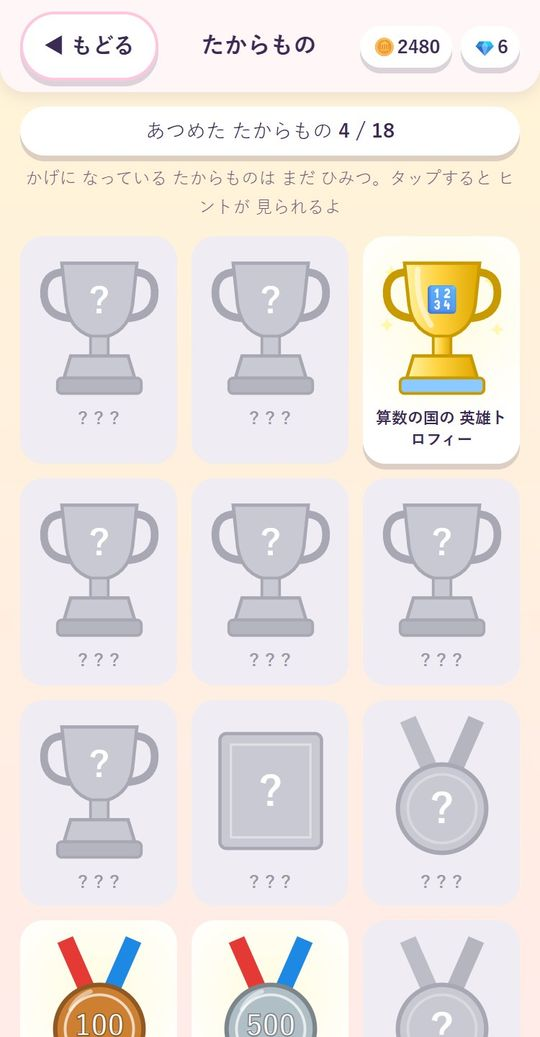
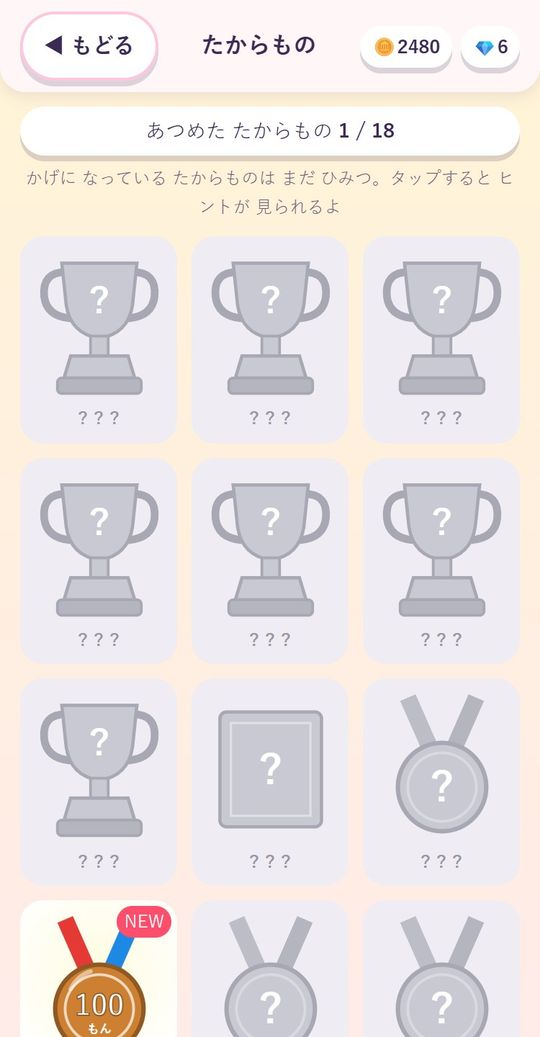
v29: 読み問題のまちがい選択肢を実在する自然な言葉に（作れない語は書き問題へ）・デバッグの音を最初からオンに＋音の切り替え・説明書のたからもの詳細を非公開に

diff --git a/yomi.js b/yomi.js
@@ -20,8 +20,9 @@ const YOMI = (() => {
     return [...out];
   }
   // 1つの 漢字の 読みを あつめる（漢字1字の ことば → 2字の 熟語を くりかえし 分ける）
+  let STEM = null, OKU = null; // STEM[k]：送りがなの つく 読み、OKU[送りがな]：[漢字, 読みの頭] の 一覧
   function build() {
-    KR = {};
+    KR = {}; STEM = {}; OKU = {};
     const add = (k, p) => { if (!p) return false; KR[k] = KR[k] || new Set(); if (KR[k].has(p)) return false; KR[k].add(p); return true; };
     const all = [];
     KANJI.forEach((K) => K.w.forEach(([w, r]) => all.push([w, r])));
@@ -29,7 +30,12 @@ const YOMI = (() => {
       const ks = [...w].filter(isK);
       if (ks.length !== 1) return;
       const i = w.indexOf(ks[0]), pre = w.slice(0, i), post = w.slice(i + 1);
-      if (r.startsWith(pre) && r.endsWith(post) && r.length > pre.length + post.length) add(ks[0], r.slice(pre.length, r.length - post.length));
+      if (r.startsWith(pre) && r.endsWith(post) && r.length > pre.length + post.length) {
+        const stem = r.slice(pre.length, r.length - post.length);
+        add(ks[0], stem);
+        // 送りがなの つく ことば（白い・学ぶ など）
+        if (post && !pre) { (STEM[ks[0]] = STEM[ks[0]] || new Set()).add(stem); (OKU[post] = OKU[post] || []).push([ks[0], stem]); }
+      }
     });
     for (let it = 0; it < 4; it++) all.forEach(([w, r]) => {
       if (w.length !== 2 || !isK(w[0]) || !isK(w[1])) return;
@@ -71,40 +77,71 @@ const YOMI = (() => {
     return { pre: reading.slice(0, best.s), p: reading.slice(best.s, best.e), suf: reading.slice(best.e) };
   }
 
-  // 1文字 ちがいの にた 読み（母音を かえる）
-  const ROWS = ["あいうえお", "かきくけこ", "がぎぐげご", "さしすせそ", "ざじずぜぞ", "たちつてと", "だでど", "なにぬねの", "はひふへほ", "ばびぶべぼ", "ぱぴぷぺぽ", "まみむめも", "やゆよ", "らりるれろ", "わを"];
-  function mutate(p) {
-    const out = [];
-    [...p].forEach((c, i) => {
-      const row = ROWS.find((r) => r.includes(c));
-      if (!row) return;
-      [...row].forEach((x) => { if (x !== c) out.push(p.slice(0, i) + x + p.slice(i + 1)); });
-    });
-    return out;
+  // ほんとうに ある ことばの 読み（漢字の ことば・ことばの国の ことば・よく つかう ことば）
+  let LEX = null;
+  const COMMON = ("こねこ こじか こうま こうし こぶた こがも こぐま こざる こいぬ こども ことり こえだ こぶね こゆび こづつみ こもり こいし こがね こなゆき " +
+    "とんぼ さくらんぼ たんぽぽ たんす たんい たいこ たまご たけのこ たぬき たから たんじょうび " +
+    "かいしゃ かいだん かいごう かいすい かいてん かいもの かいがら かいし かいじょう かいわ かいぎ かいけつ かいせい かいが かいとう かいふく " +
+    "がくせい がっこう がっき がくしゅう がくひ がくねん がくもん せんせい せんしゅ せんろ せんたく せんす " +
+    "にっき にっし にっこう にちじ にちよう まいにち まいあさ まいばん まいとし まいしゅう " +
+    "はなび はなみ はなし はなぢ はなや はなたば はなばたけ ひばな ひなた ひかり ひこうき ひるま ひるね " +
+    "すいでん すいぞう すいえい すいどう すいへい すいとう すいか すいせい すいよう でんしゃ でんわ でんき でんち " +
+    "やまみち やまびこ やまおく やまのぼり かわら かわぎし かわぐち おがわ おおかわ みずうみ うみべ はまべ " +
+    "いぬごや ねこぜ うまごや とりごや さかなや やおや ほんや くすりや はなや にくや " +
+    "あおい あかい しろい くろい きいろい ちいさい おおきい ながい みじかい たかい ひくい ふかい あさい ふとい ほそい あつい さむい あたたかい つめたい " +
+    "あたらしい ふるい つよい よわい はやい おそい おもい かるい ひろい せまい あかるい くらい うれしい かなしい たのしい やさしい むずかしい " +
+    "うみ やま かわ そら くも あめ ゆき かぜ ほし つき はな くさ き いし すな みず ひ た はたけ もり はやし いけ ぬま しま おか たに " +
+    "いぬ ねこ うし うま とり さかな むし くま しか さる ぶた かめ へび かえる うさぎ ねずみ きつね たぬき " +
+    "め みみ はな くち て あし あたま かお くび むね せなか はら ゆび こころ " +
+    "ほん かみ ふで えんぴつ つくえ いす まど と いえ へや にわ もん みち はし えき みせ まち むら " +
+    "ちち はは あに あね おとうと いもうと そふ そぼ おや こ まご " +
+    "いちねん にねん さんねん きょねん ことし らいねん がんねん しょうねん せいねん ちゅうねん " +
+    "こうえん こうじょう こうばん こうてい こうか こうしゃ こうさく こうつう こうぎょう こうちょう こうせい " +
+    "しんぶん しんごう しんせつ しんぱい しんか しんかい しんりん しんじつ " +
+    "じしん じしゃく じかん じこ じしょ じてん じどう じぶん じゆう じょうず " +
+    "がいこく がいしゅつ がいらい こくご こくばん こくみん こくりつ こっか こっき " +
+    "せかい せかいじゅう せいかつ せいかく せいき せいじ せいと せいふ せいめい せいり ").split(/\s+/).filter(Boolean);
+  function lex() {
+    if (LEX) return LEX;
+    LEX = new Set(COMMON);
+    KANJI.forEach((K) => K.w.forEach(([, r]) => LEX.add(r)));
+    if (typeof BANK !== "undefined") Object.values(BANK).forEach((b) => { if (b.label === "読みかたは？" && /^[ぁ-ん]+$/.test(b.a)) LEX.add(b.a); });
+    return LEX;
   }
 
-  // まちがいの 選択肢を 3つ つくる（作れなければ null）
+  // まちがいの 選択肢を 3つ つくる（自然な ことばが 3つ そろわなければ null）
+  // ① ほんとうに ある ことば（前と 後ろの 読みは 同じで、まん中だけ ちがう）
+  // ② 同じ 送りがなの ことば（白い → くろい・あかい、学ぶ → あそぶ・えらぶ）
+  // ③ その 漢字の べつの 読み（子犬 → こけん、番犬 → ばんいぬ：知らないと まよう）
   function distractors(K, word, reading) {
     const sp = split(word, reading, K.k);
     if (!sp) return null;
     const { pre, p, suf } = sp;
-    const mk = (q) => pre + q + suf;
-    // 日本語として ありえない ならび（「んん」や 小さい つで おわる など）は つかわない
-    const odd = (x) => /んん|^ん|^っ|っ$|っん|んっ|っっ|^ー/.test(x) || /(^|[^きしちにひみりぎじぢびぴ])[ゃゅょ]/.test(x) || (/[ぢづ]/.test(x) && !/[ぢづ]/.test(reading));
-    const near = (q) => Math.abs(q.length - p.length) <= 1;
-    const pickFrom = (list) => shuffle(list.filter((q) => q && q !== p && near(q) && mk(q) !== reading));
-    // ① その 漢字の べつの 読み（知らないと まよう）
-    const own = pickFrom(readings(K.k).filter((q) => !variants(p).includes(q)));
-    // ② 形の にた 漢字の 読み
-    const sim = pickFrom((K.sim || []).flatMap(readings));
-    // ③ 同じ 学年の ほかの 漢字の 読み
-    const grade = pickFrom(shuffle(KANJI.filter((x) => x.g === K.g && x.k !== K.k)).slice(0, 40).flatMap((x) => readings(x.k)));
-    // ④ 1文字 ちがい
-    const mut = pickFrom(mutate(p));
-    const out = [];
-    const take = (list, n) => { for (const q of list) { if (out.length >= 3 || n <= 0) break; const s = mk(q); if (!out.includes(s) && s !== reading && !odd(s)) { out.push(s); n--; } } };
-    take(own, 1); take(sim, 1); take(mut, 1); take(grade, 3); take(own, 3); take(sim, 3); take(mut, 3);
-    return out.length >= 3 ? out : null;
+    const L = lex(), cand = [];
+    const push = (x, sc) => { if (x && x !== reading && !cand.some((c) => c.x === x)) cand.push({ x, sc: sc + Math.random() }); };
+    const okLen = (m) => m.length >= 1 && Math.abs(m.length - p.length) <= (p.length >= 3 ? 2 : 1);
+    // 送りがなの ことば（白い・歩く・六つ）は、同じ 送りがなの ことばを 先に つかう
+    const kanaTail = word.slice(word.indexOf(K.k) + 1);
+    const okuri = !pre && kanaTail && suf === kanaTail && !/[一-鿿]/.test(kanaTail);
+    // ①
+    if (!okuri) L.forEach((x) => {
+      if (x.length <= pre.length + suf.length || !x.startsWith(pre) || !x.endsWith(suf)) return;
+      const m = x.slice(pre.length, x.length - suf.length);
+      if (okLen(m)) push(x, 10 + (m.length === p.length ? 0.8 : 0));
+    });
+    // ②（送りがなの つく ことば）
+    if (okuri) (OKU[kanaTail] || []).forEach(([k2, st]) => { if (k2 !== K.k && okLen(st)) push(st + suf, 9); });
+    // ③（送りがなの 読みの 頭は のぞく）
+    const stems = STEM[K.k] || new Set();
+    // （送りがなの ことばでは、音読みに 送りがなを つけた 形「ぱいる」などは 不自然なので つかわない）
+    if (!okuri) readings(K.k).filter((q) => !variants(p).includes(q) && !stems.has(q) && okLen(q) && !/^[ぱぴぷぺぽ]/.test(q)).forEach((q) => push(pre + q + suf, 6));
+    const good = cand.filter((c) => !/んん|^ん|^っ|っ$|っん|んっ|っっ/.test(c.x)).sort((a, b) => b.sc - a.sc);
+    if (good.length < 3) return null;
+    // 種類が かたよらないように：③を 1つ まぜる
+    const out = [], own = good.filter((c) => c.sc < 7);
+    if (own.length) out.push(own[0].x);
+    good.forEach((c) => { if (out.length < 3 && !out.includes(c.x)) out.push(c.x); });
+    return out.slice(0, 3);
   }
   return { distractors, split, readings };
 })();

diff --git a/manual/_src/puniquest-manual.html b/manual/_src/puniquest-manual.html
@@ -229,7 +229,7 @@ footer { margin-top: 48px; text-align: center; color: var(--ink-soft); font-size
           <li><span class="n y">9</span><span><b>ずかん</b>：あつめた カード・そざい。</span></li>
           <li><span class="n y">10</span><span><b>ミッション</b>：まいにちの おだい。</span></li>
           <li><span class="n y">11</span><span><b>セーブ</b>：きろくを のこす（ふだんは じどうで セーブされるよ）。</span></li>
-          <li><span class="n y">12</span><span><b>🏆 たからもの</b>（いちばん下の 金色の ボタン）：あつめた トロフィーや メダルを 見る。</span></li>
+          <li><span class="n y">12</span><span><b>🏆 たからもの</b>（いちばん下の 金色の ボタン）：あつめた たからものを 見る。</span></li>
         </ol>
         <div class="tip">どの 画面でも、左上の <span class="tap">◀ もどる</span> で 1つ まえに もどれるよ。画面を 下に スクロールしても、もどるボタンは ずっと 上に あるよ。</div>
       </div>
@@ -576,35 +576,23 @@ footer { margin-top: 48px; text-align: center; color: var(--ink-soft); font-size
 
   <!-- ===== 12 たからもの ===== -->
   <section class="chapter" id="takara">
-    <div class="chead"><span class="no">12</span><div><h2>たからもの</h2><p>がんばった きねんの トロフィー・メダル・表彰状</p></div></div>
-    <div class="gallery">
-      <div class="g">
-        <div class="phone"><img src="img/36_treasures.jpg" alt="たからものの 一覧。まだの ものは 灰色の かげに なっている" width="750" height="1440" loading="lazy"></div>
-        <h4>たからものの へや</h4>
-        <p>ホームの <span class="tap">🏆 たからもの</span> で 見られるよ。まだ もらっていない ものは <b>灰色の かげ</b>。タップすると ヒントが 出るよ。</p>
+    <div class="chead"><span class="no">12</span><div><h2>たからもの</h2><p>がんばった きねんの たからものが あるよ</p></div></div>
+    <div class="row">
+      <div class="shot">
+        <div class="phone"><img src="img/36_treasures.jpg" alt="たからものの へや。まだ もらっていない ものは 灰色の かげ" width="750" height="1440" loading="lazy"></div>
+        <p class="cap">たからものの へや</p>
       </div>
-      <div class="g">
-        <div class="phone"><img src="img/37_trophy.jpg" alt="もらった トロフィーを 大きく 見た ところ" width="750" height="1440" loading="lazy"></div>
-        <h4>大きく 見る</h4>
-        <p>もらった たからものを タップすると、大きな 絵と <b>もらった日</b> が 見られるよ。<span class="tap">◀ たからものに もどる</span> で もとの 画面へ。</p>
-      </div>
-      <div class="g">
-        <div class="phone"><img src="img/38_cert.jpg" alt="全世界の 英雄 表彰状" width="750" height="1440" loading="lazy"></div>
-        <h4>さいごの たからもの</h4>
-        <p>5つの 国を ぜんぶ すくって、しんの まおうを たおすと、<b>全世界の 英雄トロフィー</b>と <b>表彰状</b> が もらえるよ！</p>
+      <div class="txt">
+        <p>ホームの いちばん下の <span class="tap">🏆 たからもの</span> で 見られるよ。</p>
+        <p>ぼうけんで がんばると、ときどき たからものが もらえるよ。<b>なにを したら もらえるかは ひみつ！</b></p>
+        <ol class="legend">
+          <li><span class="n">1</span><span>まだ もらっていない ものは <b>灰色の かげ</b>。タップすると ちょっとだけ ヒントが 見られるよ。</span></li>
+          <li><span class="n">2</span><span>もらった たからものは 色が ついて かがやくよ。タップすると 大きく 見られて、<b>もらった日</b> も わかるよ。</span></li>
+          <li><span class="n">3</span><span><span class="tap">◀ たからものに もどる</span> で もとの 画面に もどれるよ。</span></li>
+        </ol>
+        <div class="tip star">ぜんぶ あつめられるかな？</div>
       </div>
     </div>
-    <div class="tbl" style="margin-top:22px"><table>
-      <tr><th>たからもの</th><th>もらえる とき</th></tr>
-      <tr><td>🏆 ○○の国の 英雄トロフィー（5こ）</td><td>その 国の 章を ぜんぶ クリア</td></tr>
-      <tr><td>🏆 まおう たいじ トロフィー</td><td>まおうを たおす</td></tr>
-      <tr><td>🏆 全世界の 英雄トロフィー・📜 表彰状</td><td>5つの 国を ぜんぶ クリアして、しんの まおうを たおす</td></tr>
-      <tr><td>🏅 正解 メダル（100・500・1000・3000問）</td><td>問題に ぜんぶで その数 正解</td></tr>
-      <tr><td>🏅 かきとり名人 メダル</td><td>かきとり道場を ぜんぶ クリア</td></tr>
-      <tr><td>🏅 キラカード 100まい メダル</td><td>★5の カードを 100まい</td></tr>
-      <tr><td>🏅 なかま 20しゅるい メダル／🏆 コンプリート トロフィー</td><td>なかまずかんを 20しゅるい／ぜんぶ</td></tr>
-      <tr><td>🏅 7日・30日 れんぞく メダル</td><td>まいにち つづけて あそぶ</td></tr>
-    </table></div>
   </section>
 
   <!-- ===== 13 せってい ===== -->
@@ -669,6 +657,7 @@ footer { margin-top: 48px; text-align: center; color: var(--ink-soft); font-size
         <p>学習のようすの確認と出題の設定は、ゲームとは別の<b>保護者ページ</b>で行います（ゲームの中からは開けません）。</p>
         <p><span class="url">https://rus855.github.io/puni-quest/parent.html</span></p>
         <p>お子さんのゲームの ⚙せってい画面に出ている12文字の「ふっかつコード」を入力して開きます。コードは<b>ぼうけんのしょ（セーブデータ）ごとに別</b>です。1台のスマホをきょうだいで使う場合なども、ページ下の「➕ コードを 追加・変更する」から<b>最大3つ</b>登録し、上部のボタンで切り替えて、それぞれに出題の設定ができます。このURLはお子さんには伝えないでください。</p>
+        <p><b>英語版「ぷにまるクエスト ENGLISH」</b>のふっかつコードも、同じ画面で登録できます（自動で見分けます。コードのボタンに 🔤 が付きます）。英語版のコードを選ぶと、学習記録と出題の設定が英語版のもの（中1〜高3・英語の章）に切り替わります。</p>
       </div>
       <div class="pc">
         <h3>⚙ 出題範囲の設定</h3>
@@ -706,7 +695,7 @@ footer { margin-top: 48px; text-align: center; color: var(--ink-soft); font-size
       </div>
       <div class="pc">
         <h3>🏆 たからもの（記念）</h3>
-        <p>国ごとの全クリア（英雄トロフィー）、まおう討伐、全世界の英雄トロフィーと表彰状、正解数（100・500・1000・3000問）、かきとり道場全クリア、キラカード100枚、なかま収集、連続ログイン（7日・30日）で記念品がもらえます。ホームの「🏆 たからもの」で、もらった日と一緒に見られます。</p>
+        <p>がんばりに応じて、記念のたからものがもらえます。ホームの「🏆 たからもの」で、もらった日と一緒に見られます。何をするともらえるかは、お子さんの楽しみのため説明書では伏せています。</p>
       </div>
       <div class="pc">
         <h3>⏱ 遊び方の目安</h3>
@@ -722,5 +711,5 @@ footer { margin-top: 48px; text-align: center; color: var(--ink-soft); font-size
     </div>
   </section>
 
-  <footer>ぷにまるクエスト ぼうけんガイド　・　画面は ver.27 の ものです</footer>
+  <footer>ぷにまるクエスト ぼうけんガイド　・　画面は ver.29 の ものです</footer>
 </div>

diff --git a/manual/kids.html b/manual/kids.html
@@ -251,7 +251,7 @@ section, header, nav.toc, .pc, .qa { scroll-margin-top: 84px; }
           <li><span class="n y">9</span><span><b>ずかん</b>：あつめた カード・そざい。</span></li>
           <li><span class="n y">10</span><span><b>ミッション</b>：まいにちの おだい。</span></li>
           <li><span class="n y">11</span><span><b>セーブ</b>：きろくを のこす（ふだんは じどうで セーブされるよ）。</span></li>
-          <li><span class="n y">12</span><span><b>🏆 たからもの</b>（いちばん下の 金色の ボタン）：あつめた トロフィーや メダルを 見る。</span></li>
+          <li><span class="n y">12</span><span><b>🏆 たからもの</b>（いちばん下の 金色の ボタン）：あつめた たからものを 見る。</span></li>
         </ol>
         <div class="tip">どの 画面でも、左上の <span class="tap">◀ もどる</span> で 1つ まえに もどれるよ。画面を 下に スクロールしても、もどるボタンは ずっと 上に あるよ。</div>
       </div>
@@ -598,35 +598,23 @@ section, header, nav.toc, .pc, .qa { scroll-margin-top: 84px; }
 
   <!-- ===== 12 たからもの ===== -->
   <section class="chapter" id="takara">
-    <div class="chead"><span class="no">12</span><div><h2>たからもの</h2><p>がんばった きねんの トロフィー・メダル・表彰状</p></div></div>
-    <div class="gallery">
-      <div class="g">
-        <div class="phone"><img src="img/36_treasures.jpg" alt="たからものの 一覧。まだの ものは 灰色の かげに なっている" width="750" height="1440" loading="lazy"></div>
-        <h4>たからものの へや</h4>
-        <p>ホームの <span class="tap">🏆 たからもの</span> で 見られるよ。まだ もらっていない ものは <b>灰色の かげ</b>。タップすると ヒントが 出るよ。</p>
+    <div class="chead"><span class="no">12</span><div><h2>たからもの</h2><p>がんばった きねんの たからものが あるよ</p></div></div>
+    <div class="row">
+      <div class="shot">
+        <div class="phone"><img src="img/36_treasures.jpg" alt="たからものの へや。まだ もらっていない ものは 灰色の かげ" width="750" height="1440" loading="lazy"></div>
+        <p class="cap">たからものの へや</p>
       </div>
-      <div class="g">
-        <div class="phone"><img src="img/37_trophy.jpg" alt="もらった トロフィーを 大きく 見た ところ" width="750" height="1440" loading="lazy"></div>
-        <h4>大きく 見る</h4>
-        <p>もらった たからものを タップすると、大きな 絵と <b>もらった日</b> が 見られるよ。<span class="tap">◀ たからものに もどる</span> で もとの 画面へ。</p>
-      </div>
-      <div class="g">
-        <div class="phone"><img src="img/38_cert.jpg" alt="全世界の 英雄 表彰状" width="750" height="1440" loading="lazy"></div>
-        <h4>さいごの たからもの</h4>
-        <p>5つの 国を ぜんぶ すくって、しんの まおうを たおすと、<b>全世界の 英雄トロフィー</b>と <b>表彰状</b> が もらえるよ！</p>
+      <div class="txt">
+        <p>ホームの いちばん下の <span class="tap">🏆 たからもの</span> で 見られるよ。</p>
+        <p>ぼうけんで がんばると、ときどき たからものが もらえるよ。<b>なにを したら もらえるかは ひみつ！</b></p>
+        <ol class="legend">
+          <li><span class="n">1</span><span>まだ もらっていない ものは <b>灰色の かげ</b>。タップすると ちょっとだけ ヒントが 見られるよ。</span></li>
+          <li><span class="n">2</span><span>もらった たからものは 色が ついて かがやくよ。タップすると 大きく 見られて、<b>もらった日</b> も わかるよ。</span></li>
+          <li><span class="n">3</span><span><span class="tap">◀ たからものに もどる</span> で もとの 画面に もどれるよ。</span></li>
+        </ol>
+        <div class="tip star">ぜんぶ あつめられるかな？</div>
       </div>
     </div>
-    <div class="tbl" style="margin-top:22px"><table>
-      <tr><th>たからもの</th><th>もらえる とき</th></tr>
-      <tr><td>🏆 ○○の国の 英雄トロフィー（5こ）</td><td>その 国の 章を ぜんぶ クリア</td></tr>
-      <tr><td>🏆 まおう たいじ トロフィー</td><td>まおうを たおす</td></tr>
-      <tr><td>🏆 全世界の 英雄トロフィー・📜 表彰状</td><td>5つの 国を ぜんぶ クリアして、しんの まおうを たおす</td></tr>
-      <tr><td>🏅 正解 メダル（100・500・1000・3000問）</td><td>問題に ぜんぶで その数 正解</td></tr>
-      <tr><td>🏅 かきとり名人 メダル</td><td>かきとり道場を ぜんぶ クリア</td></tr>
-      <tr><td>🏅 キラカード 100まい メダル</td><td>★5の カードを 100まい</td></tr>
-      <tr><td>🏅 なかま 20しゅるい メダル／🏆 コンプリート トロフィー</td><td>なかまずかんを 20しゅるい／ぜんぶ</td></tr>
-      <tr><td>🏅 7日・30日 れんぞく メダル</td><td>まいにち つづけて あそぶ</td></tr>
-    </table></div>
   </section>
 
   <!-- ===== 13 せってい ===== -->

diff --git a/manual/parents.html b/manual/parents.html
@@ -205,6 +205,7 @@ section, header, nav.toc, .pc, .qa { scroll-margin-top: 84px; }
         <p>学習のようすの確認と出題の設定は、ゲームとは別の<b>保護者ページ</b>で行います（ゲームの中からは開けません）。</p>
         <p><span class="url">https://rus855.github.io/puni-quest/parent.html</span></p>
         <p>お子さんのゲームの ⚙せってい画面に出ている12文字の「ふっかつコード」を入力して開きます。コードは<b>ぼうけんのしょ（セーブデータ）ごとに別</b>です。1台のスマホをきょうだいで使う場合なども、ページ下の「➕ コードを 追加・変更する」から<b>最大3つ</b>登録し、上部のボタンで切り替えて、それぞれに出題の設定ができます。このURLはお子さんには伝えないでください。</p>
+        <p><b>英語版「ぷにまるクエスト ENGLISH」</b>のふっかつコードも、同じ画面で登録できます（自動で見分けます。コードのボタンに 🔤 が付きます）。英語版のコードを選ぶと、学習記録と出題の設定が英語版のもの（中1〜高3・英語の章）に切り替わります。</p>
       </div>
       <div class="pc" id="p3">
         <h3>⚙ 出題範囲の設定</h3>
@@ -242,7 +243,7 @@ section, header, nav.toc, .pc, .qa { scroll-margin-top: 84px; }
       </div>
       <div class="pc" id="p8">
         <h3>🏆 たからもの（記念）</h3>
-        <p>国ごとの全クリア（英雄トロフィー）、まおう討伐、全世界の英雄トロフィーと表彰状、正解数（100・500・1000・3000問）、かきとり道場全クリア、キラカード100枚、なかま収集、連続ログイン（7日・30日）で記念品がもらえます。ホームの「🏆 たからもの」で、もらった日と一緒に見られます。</p>
+        <p>がんばりに応じて、記念のたからものがもらえます。ホームの「🏆 たからもの」で、もらった日と一緒に見られます。何をするともらえるかは、お子さんの楽しみのため説明書では伏せています。</p>
       </div>
       <div class="pc" id="p9">
         <h3>⏱ 遊び方の目安</h3>

diff --git a/dev-jxwyuh58fb/debug.js b/dev-jxwyuh58fb/debug.js
@@ -60,6 +60,12 @@
           <button onclick="dbg.heal()">体力 ぜんかいふく</button>
           <button onclick="dbg.auto()">自動プレイ（全問正解）</button>
         </div>
+        <h3>音（いまの ぼうけんのしょの せってい）</h3>
+        <div class="dgrid">
+          <button class="${S && S.sound ? "on" : ""}" onclick="dbg.snd()">🔔 効果音：${S && S.sound ? "オン" : "オフ"}</button>
+          <button class="${S && S.bgm ? "on" : ""}" onclick="dbg.bgmOn()">🎵 BGM：${S && S.bgm ? "オン" : "オフ"}</button>
+        </div>
+        <p class="small">※ 音は さいしょ オフです。iPhoneの マナーモード中は（イヤホンが なければ）鳴りません。</p>
         <h3>BGM を きく（せっていが オフでも 鳴るよ）</h3>
         <div class="dgrid">
           ${BGM.songs().map((x) => `<button class="${BGM.previewing() === x.id ? "on" : ""}" onclick="dbg.bgm('${x.id}')">🎵 ${x.name}</button>`).join("")}
@@ -121,6 +127,8 @@
       if (!S.eq.acc) S.eq.acc = "x_none";
       done(`アクセサリーを ${acc.length}こ ぜんぶ そろえたよ`);
     },
+    snd() { if (!needS()) return; S.sound = !S.sound; save(); closeModal(); openDebug(); snd("ok"); },
+    bgmOn() { if (!needS()) return; S.bgm = !S.bgm; save(); BGM.refresh(); closeModal(); openDebug(); },
     bgm(id) { BGM.preview(id); closeModal(); openDebug(); toast(id ? "🎵 さいせい中（まわりの 音に 注意）" : "BGMを ふつうに もどしたよ"); },
     toggleOpen() { window.PQ_OPEN = !window.PQ_OPEN; closeModal(); openDebug(); },
     toggleZukan() { window.PQ_ZUKANALL = !window.PQ_ZUKANALL; ss("pq_debug_zukan", window.PQ_ZUKANALL ? "1" : "0"); closeModal(); openDebug(); },

diff --git a/manual/_src/shoot.js b/manual/_src/shoot.js
@@ -68,7 +68,7 @@ const SHOTS = [
   ["33_costume", `RESTORE(); S.eq={weapon:"w_heart",armor:"a_knight",hat:"h_none",acc:"x_dragon"}; equip()`],
   ["34_shopacc", `RESTORE(); S.tierClear={1:true,2:true,3:true}; shop("acc")`],
   ["35_dressup", `RESTORE(); const cs=[["w_heart","a_bear","h_none","x_cloud"],["w_tuna","a_swim","h_glasses","x_whale"],["w_niji","a_knight","h_none","x_dragon"],["w_mugen","a_robot","h_none","x_rocket"],["w_h1","a_ninja2","h_none","x_horse"],["w_shine","a_bolt","h_crown","x_none"],["w_starwand","a_starry","h_tiara","x_rainbow"],["w_harisen","a_box","h_afro","x_tear"],["w_stick","a_cloth","h_party","x_heart"]]; setScreen('<div style="display:grid;grid-template-columns:repeat(3,1fr);gap:6px;padding:18px 8px;background:#fff7fb;min-height:720px">'+cs.map(c=>'<div style="text-align:center">'+charSVG({weapon:c[0],armor:c[1],hat:c[2],acc:c[3]},S.color)+'</div>').join("")+'</div>',"bg-home")`],
-  ["36_treasures", `RESTORE(); S.stats.cor=620; S.login.streak=8; worldChapters("math").forEach(c=>S.stClear[c.id+"-4"]=3); checkTreasures(); Object.keys(S.treasures).forEach(k=>S.treasureSeen[k]=1); treasures()`],
+  ["36_treasures", `RESTORE(); S.treasures={}; S.treasureSeen={}; treasures()`],
   ["37_trophy", `RESTORE(); worldChapters("math").forEach(c=>S.stClear[c.id+"-4"]=3); checkTreasures(); treasures(); treasureDetail(TREASURES.findIndex(t=>t.id==="hero_math"))`, 900],
   ["38_cert", `RESTORE(); S.treasures=Object.assign(S.treasures||{}, {cert:Date.now()}); treasures(); treasureDetail(TREASURES.findIndex(t=>t.id==="cert"))`, 900],
   ["27_hatch", `RESTORE(); S.eggs[0].p=20; nakama("egg"); hatchEgg(0)`, 2800],

diff --git a/app.js b/app.js
@@ -28,7 +28,7 @@ const wait = (ms) => new Promise((r) => setTimeout(r, ms));
 // ---------- セーブデータ ----------
 function newSave() {
   return {
-    v: 1, name: "", color: BODY_COLORS[0], coins: 50, gems: 0, sound: false, bgm: false, aud: 1, mats: {},
+    v: 1, name: "", color: BODY_COLORS[0], coins: 50, gems: 0, sound: !!PQ_DEBUG, bgm: !!PQ_DEBUG, aud: 1, mats: {}, // 音は さいしょ オフ（デバッグでは オン）
     owned: ["w_stick", "a_cloth", "h_none", "x_none"], eq: { weapon: "w_stick", armor: "a_cloth", hat: "h_none", acc: "x_none" },
     cards: {}, cleared: {}, stClear: {}, tierClear: {}, stats: { tot: 0, cor: 0, days: {} },
     eggs: [], pets: [], partner: 0, petDex: {}, petUid: 0,
@@ -620,6 +620,8 @@ function makeQ(id, kind) {
       // ほかの 字や ひらがなの 部分は そのままで、この 漢字の 読みだけ ちがう まちがいを つくる（消去法で とけないように）
       const smart = YOMI.distractors(K, word, reading);
       if (smart) return mkOpts(q, reading, smart);
+      // 自然な まちがいが 3つ そろわない ことばは、「□に 入る 漢字」の 形で 出す
+      return makeQ(id, "kwrite");
       // 作れない ときは、文字数の ちかい 読みを まちがいに する
       const pool = [];
       KANJI.forEach((x) => x.w.forEach(([, r]) => { if (r !== reading && !pool.includes(r)) pool.push(r); }));

diff --git a/sw.js b/sw.js
@@ -1,13 +1,14 @@
 // オフラインでも遊べるように、アプリのファイルを保存しておく
 // ※アプリを更新したら VERSION の数字を上げる
-const VERSION = "puni-v28";
+const VERSION = "puni-v29";
 const FILES = ["./", "index.html", "style.css", "data.js", "world.js", "c_kanji.js", "c_kotoba.js", "c_math.js", "c_sci.js", "c_soc.js", "cloud.js", "pets.js", "music.js", "gear.js", "extra.js", "treasure.js", "yomi.js", "app.js", "manifest.webmanifest", "icons/icon-192.png", "icons/apple-touch-icon.png"];
 
 self.addEventListener("install", (e) => {
   e.waitUntil(caches.open(VERSION).then((c) => c.addAll(FILES)).then(() => self.skipWaiting()));
 });
+// 消すのは ぷにまるクエストの 古い 保存（puni-…）だけ。同じ サイトの 英語版（eigo-…）の 保存は 消さない
 self.addEventListener("activate", (e) => {
-  e.waitUntil(caches.keys().then((ks) => Promise.all(ks.filter((k) => k !== VERSION).map((k) => caches.delete(k)))).then(() => self.clients.claim()));
+  e.waitUntil(caches.keys().then((ks) => Promise.all(ks.filter((k) => k.startsWith("puni-") && k !== VERSION).map((k) => caches.delete(k)))).then(() => self.clients.claim()));
 });
 // ネットにつながるときは最新を取得し、つながらないときは保存したものを使う
 self.addEventListener("fetch", (e) => {

diff --git a/parent.css b/parent.css
@@ -92,3 +92,7 @@
 .pg-delcard { background: #fff1e6; border: 2px solid #ffc9a3; color: #8a3b00; font-size: 14px; }
 .pg-delcard small { display: block; margin-top: 4px; color: #6b4a2a; font-size: 12px; }
 .pg-delcode { margin-top: 6px; font-size: 20px; font-weight: bold; letter-spacing: .06em; text-align: center; background: #fff; border-radius: 10px; padding: 6px; user-select: all; }
+
+/* 英語版（ぷにまるクエスト ENGLISH）の コード */
+.pg-kind { font-style: normal; font-size: 11px; background: #6a5cff; color: #fff; border-radius: 99px; padding: 1px 8px; margin-left: 6px; vertical-align: middle; }
+.pg-eigo { display: block; width: 100%; min-height: 480px; border: 0; margin: 0 0 12px; background: transparent; }
